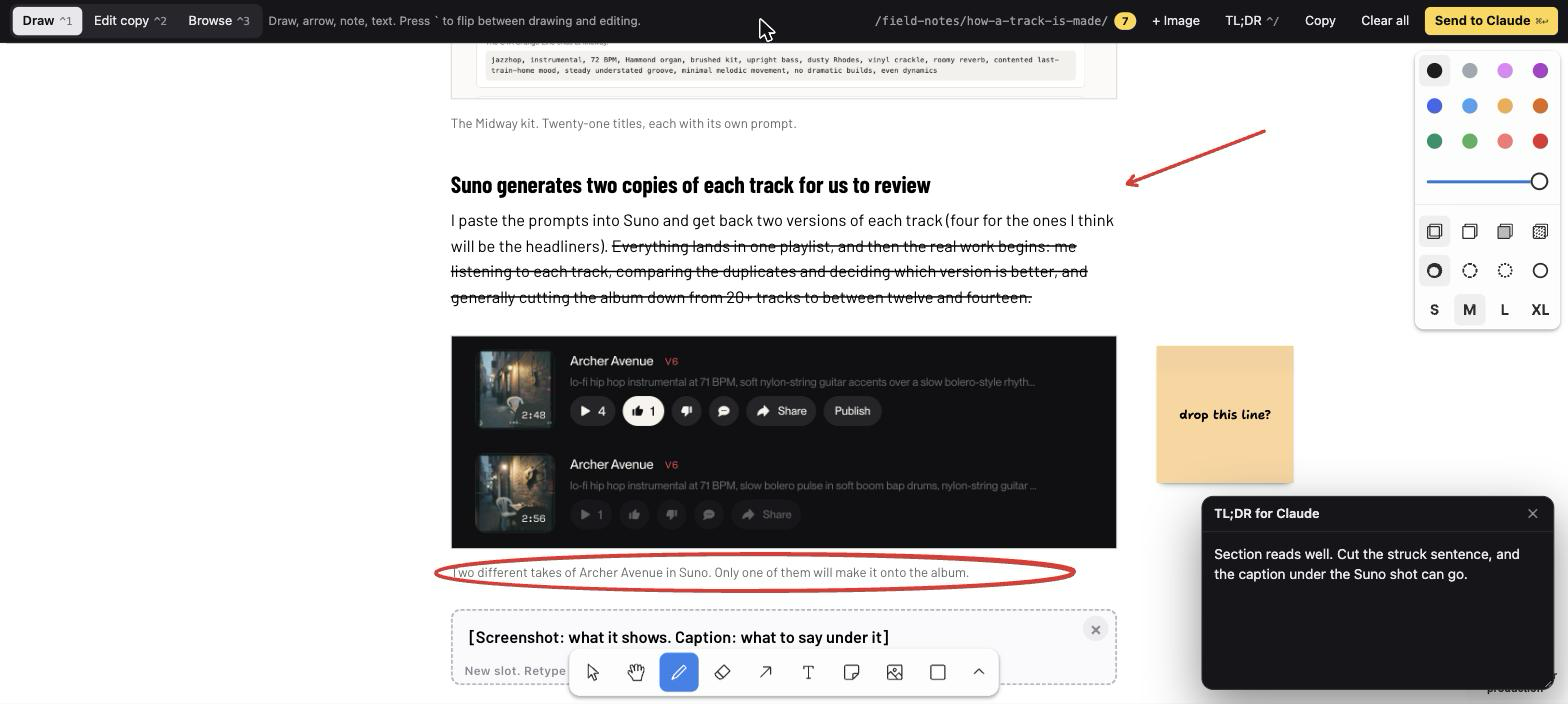
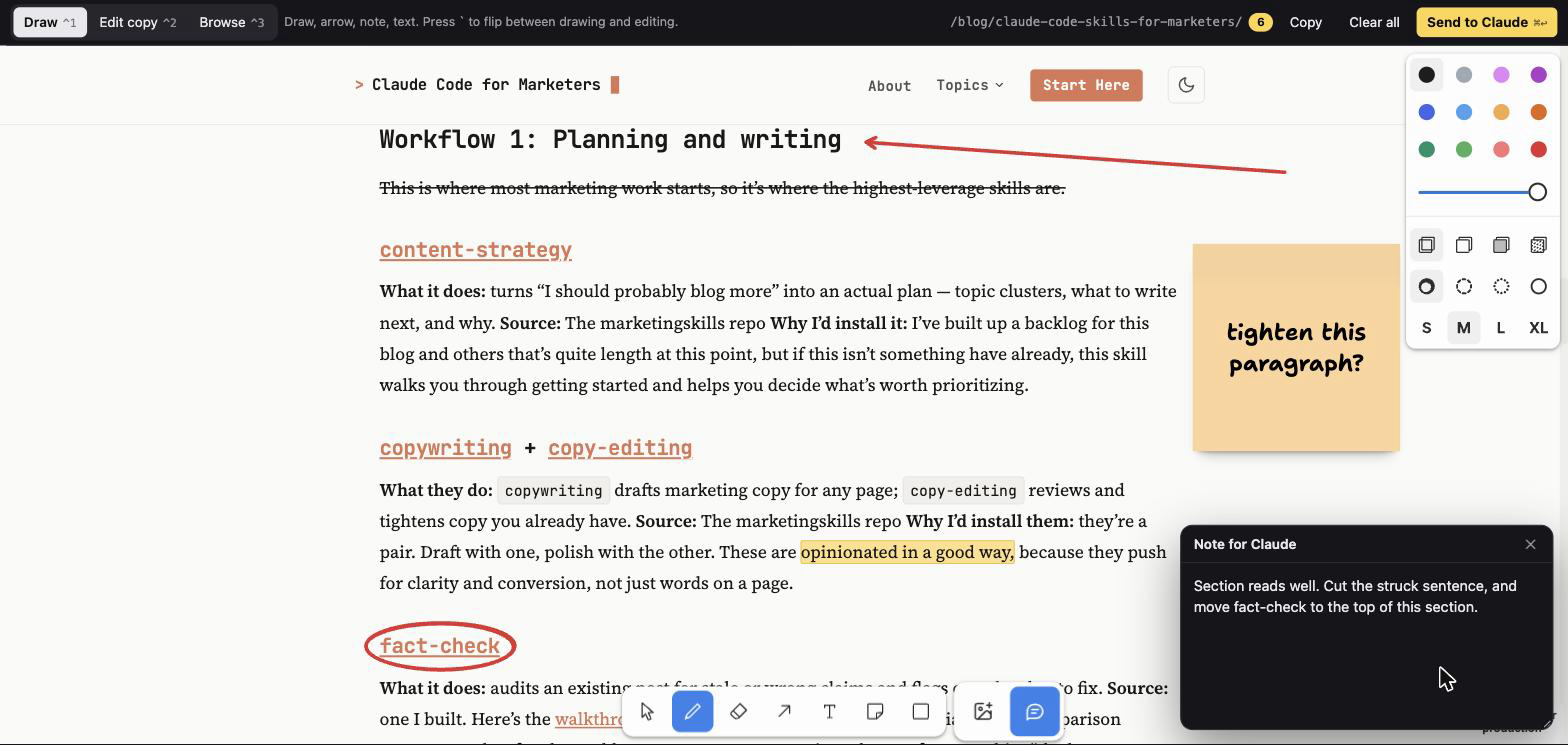
markup 0.7.1: a new screenshot, what it runs and reaches in the README, and the directory fields in the manifest

diff --git a/README.md b/README.md
@@ -4,7 +4,7 @@ This exact thing has happened to me so many times: I'd ask Claude Code for a lan
 
 This plugin puts a [tldraw](https://tldraw.dev) canvas over any local page so you can draw arrows, scribble notes, and retype the copy right where it sits, then, with one keystroke, you can hand all that feedback back to Claude.
 
-![The review layer over a blog post: a red arrow at a heading, a sentence struck through in the copy, a caption circled with a sticky note saying "drop this line?" beside it, an empty screenshot slot with its × control, and the Note box, with the image and Note buttons beside the drawing toolbar and Send to Claude in the top bar](docs/review-page.png)
+![The review layer over a blog post: a red arrow at a heading, a sentence struck through in the copy, a sticky note in the margin saying "tighten this paragraph?", a phrase highlighted where a comment is pinned, a subheading circled in red, and the Note box open, with the image and Note buttons beside the drawing toolbar and Send to Claude in the top bar](docs/review-page.png)
 
 ## Get it running in Claude Code
 
@@ -105,6 +105,13 @@ Too much copy above the fold. Cut the second paragraph.
 ```
 
 It also reads the PNG, since the strokes show things the text can't (like what you circled).
+
+## What it runs and what it reaches
+
+- **Runs:** the mod starts `scripts/review_server.py` with `python3` when you open a review, and opens your browser at the review URL. A prompt hook runs `scripts/inject_notes.py`, which reads `.review/inbox/` and keeps a list of what it has already shown in `.review/.delivered.json`.
+- **Writes:** your notes, as files in `.review/inbox/` in your project. Marks and edits you haven't sent yet stay in your browser's storage for that page.
+- **Reaches:** the mod talks to the server on `127.0.0.1` and nothing else. The review page in your browser loads React and tldraw from `esm.sh`, and tldraw fetches its own assets from `cdn.tldraw.com`. If you point it at a dev server, the server fetches pages from that address. With `--lan` it listens on your network, and runs `tailscale ip -4` to print a Tailscale link if Tailscale is installed.
+- **Sends:** nothing to me or to any service. Your notes go from the browser to the local server and into the inbox.
 
 ## Find your way around the code
 
